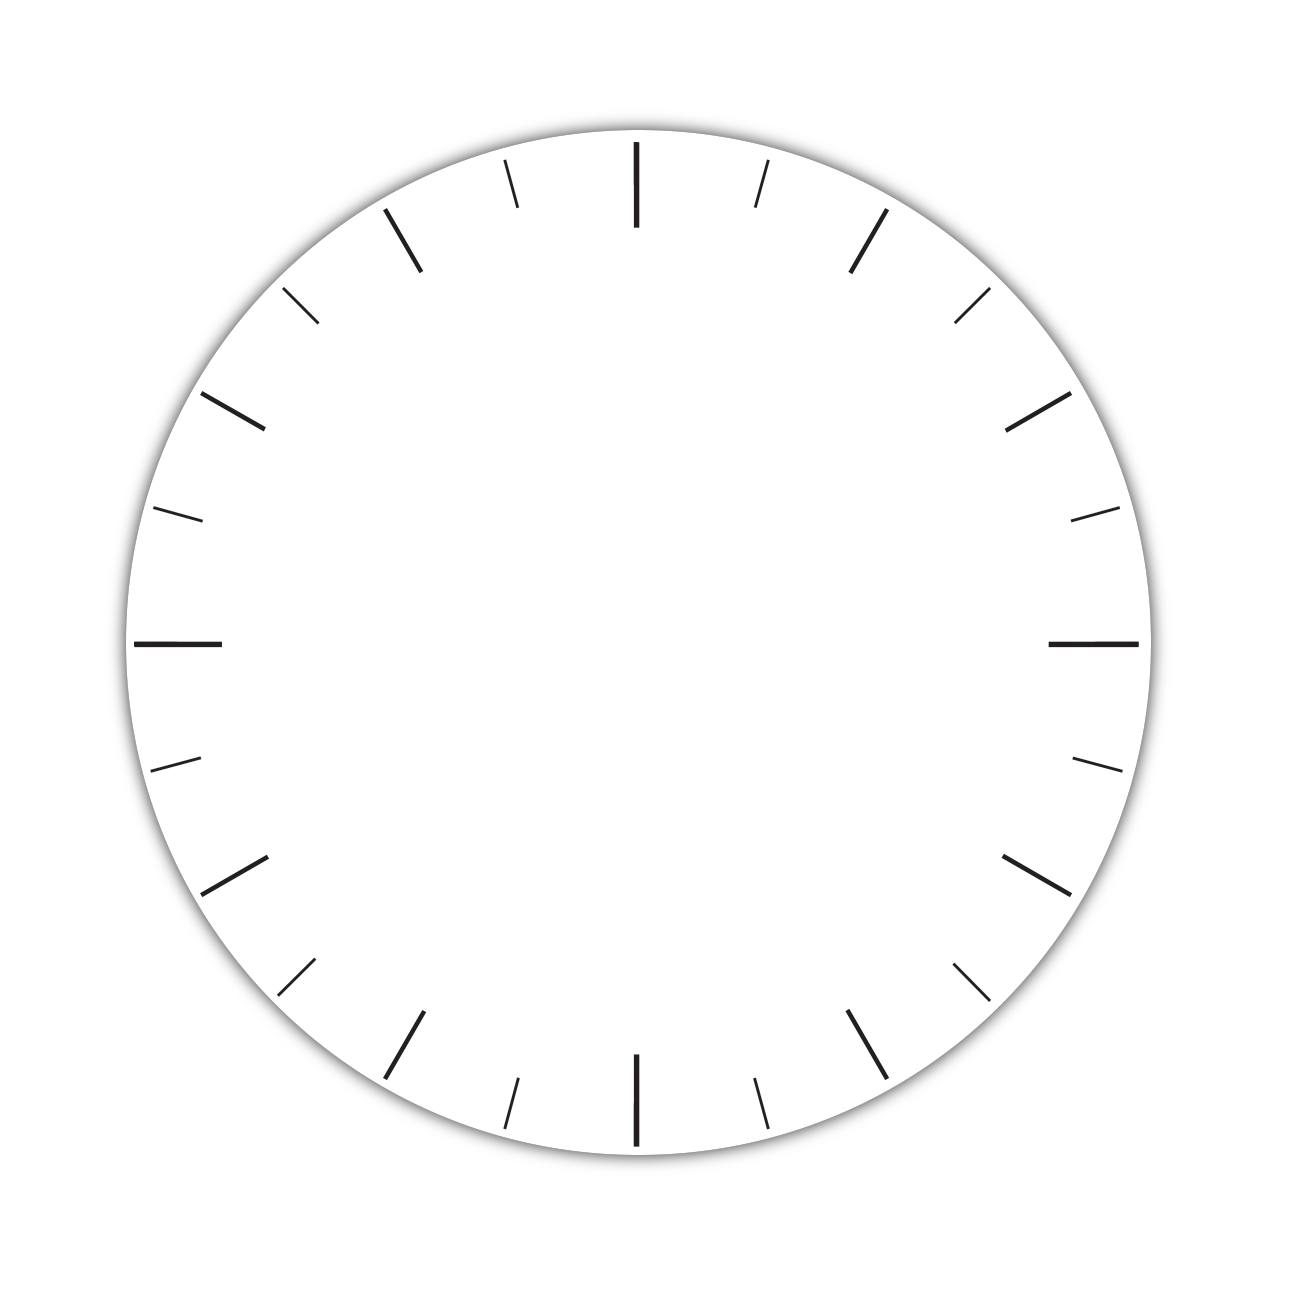
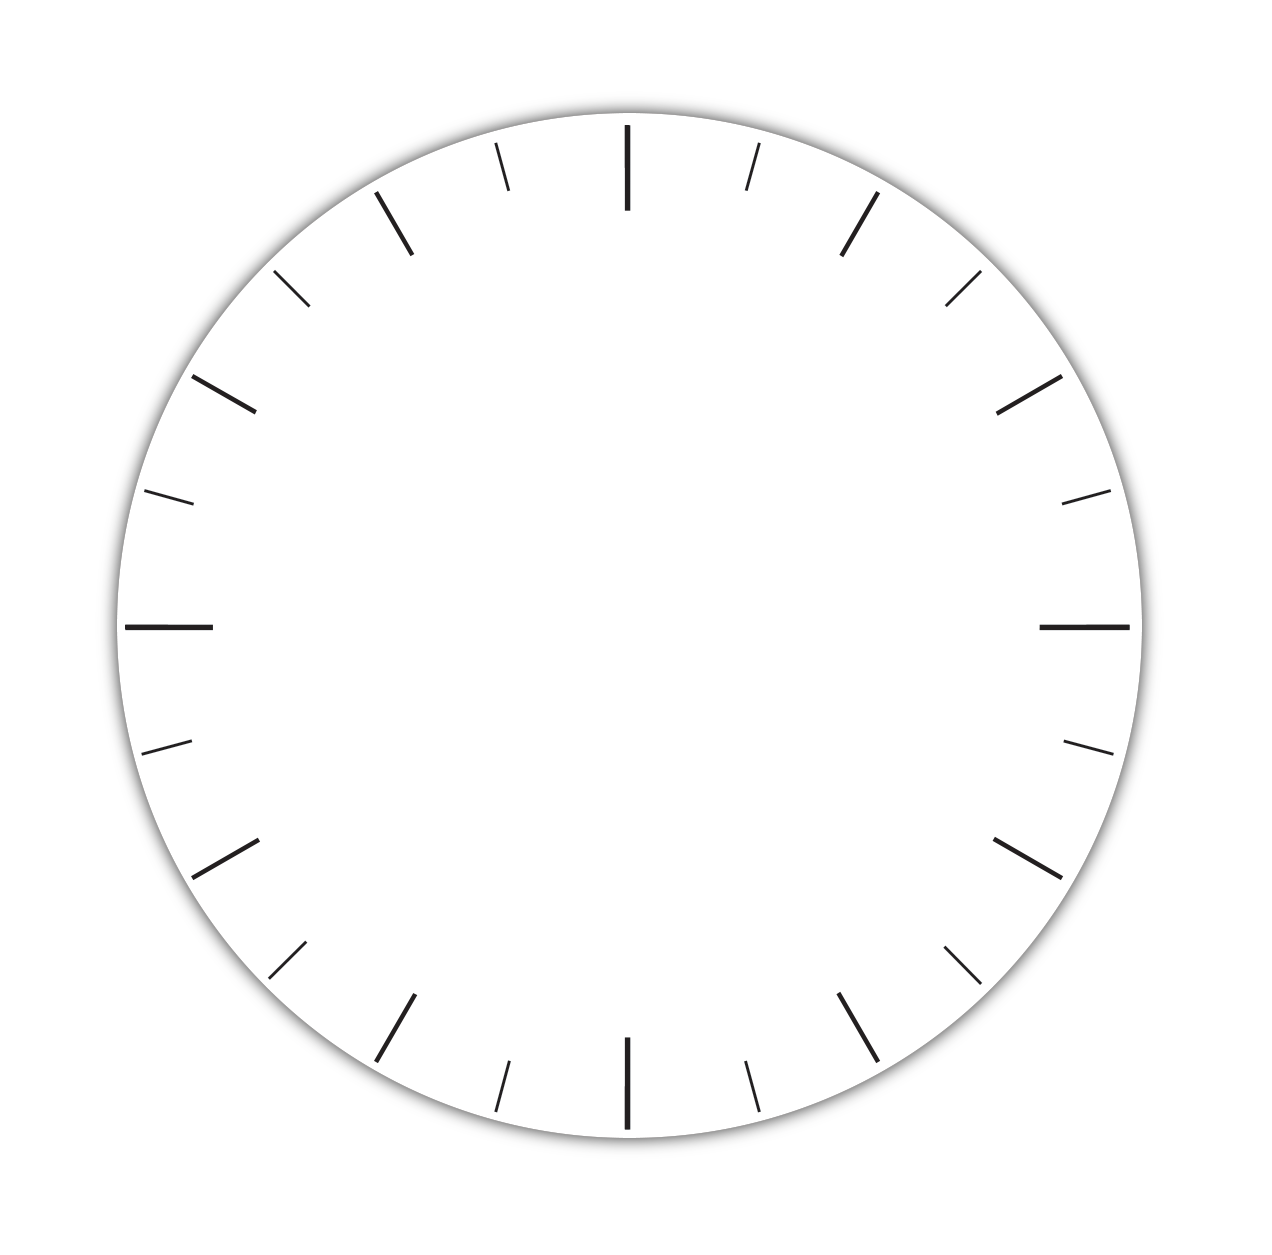
Revert "Date is working"
This reverts commit afe58d5da8336337aa491fd1877c04ad2034001a.

diff --git a/Relogio/animation Watch.js b/Relogio/animation Watch.js
@@ -1,109 +1,18 @@
-function changeText(id, txt){
-  document.getElementById(id).innerHTML = txt;
-}
+//Function that controls the watch's hands
 
-//Function that controls the watch's hands and info
 function clock() {
     var date  = new Date;
     var hours = (30 * ((date.getHours() % 12) + date.getMinutes() / 60) - 90);
-    var min   = ( 6 * date.getMinutes() - 90);
-    var sec   = ( 6 * date.getSeconds() - 90);
+    var min   = (6 * date.getMinutes() - 90);
+    var sec   = (6 * date.getSeconds() - 90);
 
     rotateHand('Hour_Hand', hours);
-    rotateHand( 'Min_Hand',   min);
-    rotateHand( 'Sec_Hand',   sec);
+    rotateHand('Min_Hand', min);
+    rotateHand('Sec_Hand', sec);
 
-    if(document.getElementById('Week_Day').innerHTML == "wd" ||
-        (hours == 270 && min == 270 && sec == 270)){
-      dateUpdate(date);
-    }
-
-    setTimeout( clock, 1000);
-}
-
-function dateUpdate(date) {
-  weekDay('Week_Day', date.getDay());
-
-  changeText('Day', date.getDate() + " ");
-
-  month('Month', date.getMonth());
+    setTimeout(clock, 1000);
 }
 
 function rotateHand(id, angle) {
     document.getElementById(id).style.transform = 'rotate(' + angle + 'deg)';
-}
-
-function weekDay(id, wd) {
-    var day;
-
-    switch(wd){
-      case 0:
-        day = "Dom";
-      break;
-      case 1:
-        day = "2a";
-      break;
-      case 2:
-        day = "3a";
-      break;
-      case 3:
-        day = "4a";
-      break;
-      case 4:
-        day = "5a";
-      break;
-      case 5:
-        day = "6a";
-      break;
-      case 6:
-        day = "Sab";
-      break;
-    }
-
-    changeText(id, day + ",");
-}
-
-function month(id, m) {
-    var month;
-
-    switch(m){
-      case 0:
-        month = "Jan";
-      break;
-      case 1:
-        month = "Fev";
-      break;
-      case 2:
-        month = "Mar";
-      break;
-      case 3:
-        month = "Abr";
-      break;
-      case 4:
-        month = "Mai";
-      break;
-      case 5:
-        month = "Jun";
-      break;
-      case 6:
-        month = "Jul";
-      break;
-      case 7:
-        month = "Ago";
-      break;
-      case 8:
-        month = "Set";
-      break;
-      case 9:
-        month = "Out";
-      break;
-      case 10:
-        month = "Nov";
-      break;
-      case 11:
-        month = "Dez";
-      break;
-    }
-
-    changeText(id, month);
 }

diff --git a/Relogio/relogio.html b/Relogio/relogio.html
@@ -10,11 +10,11 @@
         <a href="../index.html"><img id="Back_Arrow" src="../Images/Arrow.jpg"></a>
 
         <div id="Clock">
-            <img id="Watch" src="../Images/Watch Parts/watch_.png">
-            <img id="Button" src="../Images/Watch Parts/watch_button.png">
+            <img id="Watch" src="../Images/Watch Parts/watch.png">
             <div id="Date">
-                <span id="Week_Day">wd</span>
+                <span id="Sem">sem</span>
                 <span id="Day">00</span>
+                <span>/</span>
                 <span id="Month">00</span>
             </div>
             <div id="Clock_Face">
@@ -22,11 +22,11 @@
                 <div id="Hands">
                     <img id="Hour_Hand" class="hand" src="../Images/Watch Parts/watchhours.png">
                     <img id="Min_Hand"  class="hand" src="../Images/Watch Parts/watchminutes.png">
-                    <img id="Sec_Hand"  class="hand" src="../Images/Watch Parts/watchseconds.png">
+                    <img id="Sec_Hand"  class="hand" src="../Images/Watch Parts/watchseconds.png"> 
                 </div>
             </div>
 
-            <div id="Menu_Button"></div>
+            <div id="Menu_Botton"></div>
         </div>
     </body>
 </html>

diff --git a/Relogio/style Watch.css b/Relogio/style Watch.css
@@ -7,8 +7,8 @@
 }
 
 #Clock {
-    width:  1.5in;
-    height: 1.5in;
+    width: 220px;
+    height: 220px;
     margin: auto;
     position: relative;
 }
@@ -18,38 +18,33 @@
     margin: auto;
 }
 
-#Button {
-  position: absolute;
-  z-index: 1;
-  top: 0%;
-  left: 0%;
-}
-
 #Clock_Face {
+    width: 202px;
+    height: 202px;
     border-radius: 50%;
     position: absolute;
-    top: 0%;
-    left: 0%;
+    top: 4%;
+    left: 4%;
 }
 
 #Date {
     position: absolute;
     top: 70%;
-    left: 35%;
+    left: 32%;
     z-index: 2;
-    font-family: 'Open Sans', sans-serif;
-    font-size: 12px;
 }
 
 .hand {
+    width: 202px;
+    height: 202px;
     border-radius: 50%;
     position: absolute;
-    top: 0%;
-    left: 0%;
+    top: -0.5%;
+    left: -0.5%;
     z-index: 1;
 }
 
 img {
-    max-width: 1.5in;
-    max-height: 1.5in;
+    max-width: 100%;
+    max-height: 100%;
 }
